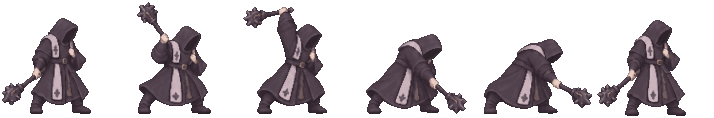
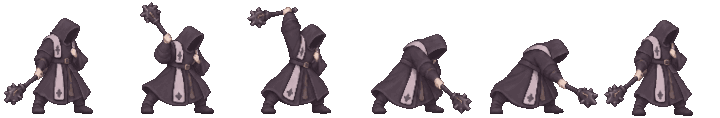
v0.3.44: flower map stones, sap bud exchange, deacon walk facing
- 지도석 기운: a grown flower rerolls a map stone's omen inside its colour
  group (LOOT_OMENS.flowers), never to the current omen; a golden flower picks
  from the group. Corrupted and guardian stones refuse and nothing is paid.
  Plain flowers count and spend 화폐화 currency first (box.wallet flower-<color>),
  then stored real flowers; golden flowers are real only. Albino, ancient and
  locked flowers are never spent.
- 거래소 m9: 수액 봉오리 1 to 형체 없는 이슬 6, the same value as m5 then m6.
- 장막 철퇴 부제사 walked looking back. Its redrawn walk is turned with a
  one-look --append-pack built from the current sheets (feet x to -x - 14, the
  old fix's mirror in its 119-dot cell), reach 63/22. build-stage-roster's
  MOTION_FACES_RIGHT now lists its move clip too.

diff --git a/index.html b/index.html
@@ -1528,7 +1528,7 @@
 <script defer src="data/atlas.js?v=20260930-15&aux=20261001-16&aux=20261001-17&maps=20261002-1&late=20261002-1&review=20261002-1&hive=20261006-1&review=20261007-1&goal=20261008-1&goal=20261008-4&goal=20261008-5&goal=20261008-6&goal=20261008-7&eff=20261008-1&ids=20261008-1&terms=20261009-1&fruit=20261009-1&post50=20261009-1&ages=20261009-1&uiwords=20261009-1&drops=20261009-3&bosses=20261018-1&codexreview=20261023-1&art=20261102-1"></script>
 <script defer src="data/atlas-passives.js?v=20260930-16&aux=20261001-17&fruit=20261009-1&omen=20261018-1"></script>
 <script defer src="data/atlas-endgame.js?v=20261002-1&review=20261002-1&hive=20261006-1&names=20261008-1&ids=20261008-1&league=20261009-1&names=20261010-1&infl=20261010-6&bosses=20261018-1&omen=20261018-1&bundle=20261102-1"></script>
-<script defer src="data/loot-omens.js?v=20261009-1&drops=20261009-2&drops=20261009-3&drops=20261009-4&drops=20261009-5&drops=20261009-6&filter=20261010-1&runes=20261017-1&omen=20261018-1&levels=20261102-1"></script>
+<script defer src="data/loot-omens.js?v=20261009-1&drops=20261009-2&drops=20261009-3&drops=20261009-4&drops=20261009-5&drops=20261009-6&filter=20261010-1&runes=20261017-1&omen=20261018-1&levels=20261102-1&flower=20261102-1"></script>
 <script defer src="data/knitting.js?v=20261022-1&codexreview=20261023-1&growth=20261025-1"></script>
 <script defer src="data/memory-leaves.js?v=20261009-1&drops=20261009-3&cohesion=20261022-1"></script>
 <script defer src="data/gem-core-forge.js?v=20260914-1&gem-value=20260915-1&aux=20261002-1&uiwords=20261009-1&forge=20261102-1"></script>
@@ -1537,7 +1537,7 @@
 <script defer src="data/skill-fx-atlas.js?v=20260909-2&native-bridge=20260909-1&slash-gallery=20260909-1&pixellab=338&runes=20261017-1"></script>
 <script defer src="data/endgame-progression.js?v=20260820-arcana-star1-pruning2&unlock=20260821-3&hideout=20260821-2&pruning-balance=20260903-1&beyond=20260901-2&boundary-balance=20260902-1&reward-flow=20260906-1&skill-delta2=20260930-10&aux=20260930-8&aux=20261001-17&post50=20261009-1&uiwords=20261009-1&runes=20261017-1&runes=20261102-1"></script>
 <script defer src="data/severed-wanderers.js?v=20260817-balance1&rooms=20261013-9&runes=20261017-1&motion1020=20261020-1"></script>
-<script defer src="data/items.js?v=20260723-currency-salvage1&defense-unique=20260811-rework1&cosmos=20260814-balance1&ocean=20260817-fishing1&growth-essence=20260819-random1&visuals=20260821-icon1&equipment-grid=20260827-3&runtime=20260905-1&loot-overhaul=20260905-4&interface-fixes=20260906-2&unlock-loot=20260906-1&affix-balance=20260910-1&craft-candidates=20260911-1&craft-copy=20260911-1&realm-uniques=20260913-1&preparation=20260914-1&skill-delta2=20260930-15&aux=20260930-6&aux=20260930-7&aux=20260930-8&aux=20261001-1&aux=20261001-16&aux=20261001-17&aux=20261002-1&late=20261002-1&review=20261002-1&weapons=20261002-1&realm=20261003-1&drops=20261005-8&playtest=20261007-4&playtest=20261007-8&playtest=20261007-9&playtest=20261007-10&tags=20261008-1&goal=20261008-1&goal=20261008-4&goal=20261008-5&terms=20261009-1&bases=20261009-1&uniq=20261009-1&deep=20261009-1&league=20261009-1&uiwords=20261009-1&names=20261010-1&infl=20261010-1&infl=20261010-3&ward=20261010-1&beltpetal=20261011-1&bootfloor=20261011-1&runes=20261017-1&boots=20261017-1&omen=20261018-1&labfix=20261019-1&chase=20261020-1&cooldown=20261021-1&npcsplit=20261021-1&uipass=20261022-1&codexreview=20261023-1&art=20261023-2&growth=20261025-1&salvage=20261025-1&swords=20261026-1&lines=20261027-1&runes=20261102-1&forge=20261102-1"></script>
+<script defer src="data/items.js?v=20260723-currency-salvage1&defense-unique=20260811-rework1&cosmos=20260814-balance1&ocean=20260817-fishing1&growth-essence=20260819-random1&visuals=20260821-icon1&equipment-grid=20260827-3&runtime=20260905-1&loot-overhaul=20260905-4&interface-fixes=20260906-2&unlock-loot=20260906-1&affix-balance=20260910-1&craft-candidates=20260911-1&craft-copy=20260911-1&realm-uniques=20260913-1&preparation=20260914-1&skill-delta2=20260930-15&aux=20260930-6&aux=20260930-7&aux=20260930-8&aux=20261001-1&aux=20261001-16&aux=20261001-17&aux=20261002-1&late=20261002-1&review=20261002-1&weapons=20261002-1&realm=20261003-1&drops=20261005-8&playtest=20261007-4&playtest=20261007-8&playtest=20261007-9&playtest=20261007-10&tags=20261008-1&goal=20261008-1&goal=20261008-4&goal=20261008-5&terms=20261009-1&bases=20261009-1&uniq=20261009-1&deep=20261009-1&league=20261009-1&uiwords=20261009-1&names=20261010-1&infl=20261010-1&infl=20261010-3&ward=20261010-1&beltpetal=20261011-1&bootfloor=20261011-1&runes=20261017-1&boots=20261017-1&omen=20261018-1&labfix=20261019-1&chase=20261020-1&cooldown=20261021-1&npcsplit=20261021-1&uipass=20261022-1&codexreview=20261023-1&art=20261023-2&growth=20261025-1&salvage=20261025-1&swords=20261026-1&lines=20261027-1&runes=20261102-1&forge=20261102-1&flower=20261103-1"></script>
 <script defer src="data/weapon-categories.js?v=20261002-1&playtest=20261007-8&bases=20261009-1&codexreview=20261023-1&swords=20261026-1"></script>
 <script defer src="data/affix-tags.js?v=20261007-1&b2=20261008-1&goal=20261008-1&goal=20261008-4&runes=20261017-1&cooldown=20261021-1"></script>
 <script defer src="data/region-affixes.js?v=20261008-1"></script>
@@ -1574,7 +1574,7 @@
 <script defer src="data/wisp-sprites.js?v=20260929-1"></script>
 <script defer src="data/monster-sprites.js?v=20261002-1&weapons=20261002-1&realm=20261003-1&hive=20261006-1&stagemon=20261011-2&backdrop=20261011-1&looks=20261013-1&codexreview=20261023-1"></script>
 <script defer src="data/monster-combat-roles.js?v=20261029-ocean1"></script>
-<script defer src="data/monster-stage-roster.js?v=20261029-breach1&art=20261102-3&outline=20261103-1"></script>
+<script defer src="data/monster-stage-roster.js?v=20261029-breach1&art=20261102-3&outline=20261103-1&flower=20261103-1"></script>
 <script defer src="data/boss-fx.js?v=20261016-1&bossattack=20261016-1&monsters1021=20261021-1&align=20261021-1&keep=20261021-1&cohesion=20261022-1&art=20261102-1"></script>
 <script defer src="data/stage-skill-vfx.js?v=20261013-2&runes=20261017-1&runev36=20261019-1&answers1020=20261020-1&rock1020=20261020-1&blessing=20261024-1&newrunes=20261101-1&20261102-6"></script>
 <script defer src="data/wisp-summons.js?v=20260930-1&newrunes=20261101-1"></script>
@@ -1604,7 +1604,7 @@
 <script defer src="js/exploration-objects.js?v=20261005-1&objects=20261005-2&drops=20261005-2&review=20261005-1&fruit=20261009-1&perf=20261013-1&atlasobjects=20261020-1&settle-pathing=20261027-1"></script>
 <script defer src="js/act-exploration-doors.js?v=20261011-1&theme=20261011-1&play=20261012-1&plans=20261013-1&boardrooms=20261013-1&roomfix=20261017-1&arrive=20261017-1&opened=20261017-1&lockon=20261017-1&ocean=20261019-1&roommaps=20261021-1&playerpolish=20261023-1&npc=20261102-1&invader=20261102-1"></script>
 <script defer src="js/exploration-ground-loot.js?v=20261005-1&currency=20261006-1&floor=20261006-2&drops=20261009-1&drops=20261009-2&bag=20261010-1&loot=20261013-1&rescue=20261015-1&seal=20261017-1&doorart=20261021-1&cohesion=20261022-1&codexreview=20261023-1&mutation=20261023-1&sound=20261023-1&colonyreturn=20261026-1&levels=20261102-1&20261102-4"></script>
-<script defer src="js/stump-box.js?v=20260930-6&aux=20260930-8&aux=20261001-18&drag=20261004-1&stump=20261006-1&playtest=20261007-8&playtest=20261007-9&stump16=20261008-1&goal=20261008-1&goal=20261008-6&deep=20261009-1&stump=20261009-1&stumpwords=20261009-1&stumpwords2=20261009-1&stumpwords3=20261009-1&bulkdiscard=20261018-1&stumpfull=20261019-1&codexreview=20261023-1&bagswap=20261023-1&blessing=20261024-1&growth=20261025-1&settle-cuts=20261027-1&stumpui=20261028-1&stump-gems=20261029-1&v0330=20261030-1&albino=20261030-1&levels=20261102-1&20261103-1&20261103-4"></script>
+<script defer src="js/stump-box.js?v=20260930-6&aux=20260930-8&aux=20261001-18&drag=20261004-1&stump=20261006-1&playtest=20261007-8&playtest=20261007-9&stump16=20261008-1&goal=20261008-1&goal=20261008-6&deep=20261009-1&stump=20261009-1&stumpwords=20261009-1&stumpwords2=20261009-1&stumpwords3=20261009-1&bulkdiscard=20261018-1&stumpfull=20261019-1&codexreview=20261023-1&bagswap=20261023-1&blessing=20261024-1&growth=20261025-1&settle-cuts=20261027-1&stumpui=20261028-1&stump-gems=20261029-1&v0330=20261030-1&albino=20261030-1&levels=20261102-1&20261103-1&20261103-4&flower=20261103-1"></script>
 <script defer src="js/item-appraisal.js?v=20260929-1&aux=20261002-1&uiwords=20261009-1"></script>
 <script defer src="js/player-stall.js?v=20260929-1&aux=20261002-1&drops=20261005-3&pickup=20261005-1&dmg=20261005-2&bag=20261010-1&shop=20261018-1&growth=20261025-1&v0330=20261030-1"></script>
 <script defer src="js/level-progression.js?v=20260911-1&requirements-review=20260911-1&unique-equipment=20260913-1&experience-curve=20260914-1&skill-delta2=20260930-8&drops=20261005-9&runegap=20261018-1"></script>
@@ -1671,14 +1671,14 @@
 <script defer src="js/combat-equipment-stats.js?v=20260911-1&unique-equipment=20260913-1&aux=20260930-7&aux=20261002-13&finish=20261008-1&split=20261008-1&uiwords=20261009-1&hunt=20261020-1&blessing=20261024-1&settleresume=20261025-1&bark=20261031-1"></script>
 <script defer src="js/player-stat-cache.js?v=20261008-1&fg=20261008-1&breath=20261020-1&settle-cuts=20261027-1&v0339=20261102-1"></script>
 <script defer src="js/cosmos-route.js?v=20260909-8&uiwords=20261009-1&gravity=20261029-1"></script>
-<script defer src="js/loot-omens.js?v=20261009-1&drops=20261009-2&drops=20261009-3&filter=20261010-1&omen=20261018-1"></script>
+<script defer src="js/loot-omens.js?v=20261009-1&drops=20261009-2&drops=20261009-3&filter=20261010-1&omen=20261018-1&flower=20261102-1"></script>
 <script defer src="js/memory-leaves.js?v=20261009-1&drops=20261009-2&drops=20261009-3&drops=20261009-4&cohesion=20261022-1"></script>
 <script defer src="js/atlas-maps.js?v=20260930-15&goal=20261008-2&post50=20261009-1&uiwords=20261009-1&drops=20261009-1&drops=20261009-3&drops=20261009-4&filter=20261010-1&bosses=20261018-1"></script>
 <script defer src="js/atlas-passives.js?v=20260930-9&aux=20261001-17&fruit=20261009-1&endgame=20261018-1"></script>
 <script defer src="js/atlas-encounters.js?v=20260930-15&late=20261002-1&review=20261002-1&hive=20261006-1&review=20261007-1&goal=20261008-1&goal=20261008-4&goal=20261008-7&fruit=20261009-1&post50=20261009-1&incident=20261020-2&bundle=20261102-1"></script>
 <script defer src="js/atlas-epoch.js?v=20260930-15&late=20261002-1&eff=20261008-1&tidy=20261018-1"></script>
 <script defer src="js/atlas-board.js?v=20261018&bundle=20261102-1"></script>
-<script defer src="js/atlas.js?v=20260930-15&maps=20261002-1&late=20261002-1&review=20261002-1&traps=20261002-1&goal=20261008-1&goal=20261008-2&goal=20261008-3&ids=20261008-1&fruit=20261009-1&uiwords=20261009-1&drops=20261009-1&drops=20261009-2&drops=20261009-4&infl=20261010-1&endgame=20261018-1&bosses=20261018-1&linger=20261019-2&cohesion=20261022-1&codexreview=20261023-1&art=20261102-1"></script>
+<script defer src="js/atlas.js?v=20260930-15&maps=20261002-1&late=20261002-1&review=20261002-1&traps=20261002-1&goal=20261008-1&goal=20261008-2&goal=20261008-3&ids=20261008-1&fruit=20261009-1&uiwords=20261009-1&drops=20261009-1&drops=20261009-2&drops=20261009-4&infl=20261010-1&endgame=20261018-1&bosses=20261018-1&linger=20261019-2&cohesion=20261022-1&codexreview=20261023-1&art=20261102-1&flower=20261102-1"></script>
 <script defer src="js/atlas-endgame.js?v=20261002-1&review=20261002-1&review=20261002-2&hive=20261006-1&hive=20261006-2&review=20261007-1&stump16=20261008-1&goal=20261008-6&ids=20261008-1&league=20261009-1&infl=20261010-1&infl=20261010-6&endgame=20261018-1&bosses=20261018-1&omen=20261018-1&cohesion=20261022-1&bundle=20261102-1"></script>
 <script defer src="js/loop-mutation.js?v=20261023-1"></script>
 <script defer src="js/combat.js?v=20260806-loot-tiers1-20260807-evasion-entropy1&recovery-tick=20260908-1&growth=20260806-growth-drop3&records=20260808-background-fix1&vfx=20260810-skill-vfx2&tactics=20260810-combat-tactics1&channel=20260810-sustain1&passive=20260810-presets1&defense-unique=20260811-rework1&body-cue=20260811-fixed1&impact=20260811-boss-sync1&damage-text=20260811-volley1&ehp=20260811-bosspeak1&underworld=20260819-depth1&lightning-spear=20260812-performance1&hit-guard=20260813-attack-scope1&meteor=20260813-ground1&shield-charge=20260814-armor1&loop-completion=20260814-settings1&tooltip=20260814-perf1&cosmos=20260814-balance1&power=20260814-readiness1&trial=20260814-bloom1&pinnacle=20260814-atlas1&tune=20260815-cosmos-ehp1&trial5=20260816-underworld1&directives=20260817-1&wanderer=20260817-balance1&bounty=20260817-restore1&vfx-budget=20260818-1&balance=20260819-endless-cap1&travel=20260819-empty-rush1&offline-stash=20260820-1&endgame=20260821-arcana4&hideout=20260821-2&combat-log-icons=20260822-1&map-tabs=20260823-1&player-classes=20260828-1&passive-gate=20260829-1&trial-hazard=20260901-3&death-feedback=20260901-1&beyond=20260901-2&square-map=20260901-3&enemy-lunge=20260902-1&return-depart=20260902-1&realm-monsters=20260902-1&drop-balance=20260902-1&underworld-yield=20260902-1&cosmos-hp=20260902-1&rival31=20260902-1&boundary-balance=20260902-1&frost-burst=20260902-1&passive-contracts=20260903-2&choice-feedback=20260904-1&wisps=20260904-2&runtime=20260905-2&slash-vfx=20260905-1&footprint=20260905-4&skill-identity=20260905-1&combat-contracts=20260905-1&combat-overhaul=20260905-2&loot-overhaul=20260905-1&loot-filter=20260905-1&interface-fixes=20260906-2&refinement=20260906-1&content-choice=20260906-1&choice-tree=20260906-1&flow=20260906-1&unlock-loot=20260906-1&reward-flow=20260906-1&unlock-lifecycle=20260907-1&unlock-split=20260907-1&treasure=20260907-1&thermal=20260907-1&health-boundary=20260908-1&hunt-rewards=20260908-1&hunt-failure=20260908-1&condition-feedback=20260909-1&stat-pipeline=20260909-1&stat-inputs=20260909-1&route=20260909-8&native-bridge=20260909-1&slash-gallery=20260909-1&contact-feedback=20260909-1&enemy-attacks=20260910-1&integrated-review=20260910-1&affix-balance=20260910-1&level-progression=20260911-1&ground-loot=20260911-1&requirements-review=20260911-1&review=20260912-v338&realm-uniques=20260913-1&drop-origin=20260913-1&completion-loot=20260913-1&content-resume=20260913-1&altar-flow=20260913-1&world-tree-journey=20260913-1&exploration=20260913-4&environment-readiness=20260913-1&expedition-review=20260914-2&expedition-result=20260914-2&time-rift=20260914-4&melee-approach=20260914-1&death-report=20260914-1&atlas-copy=20260914-3&crafting-workspace=20260914-1&experience-curve=20260914-1&gem-growth=20260914-1&gem-forge=20260914-1&gem-value=20260914-2&skill-delta2=20260930-15&aux=20260930-3&aux=20260930-6&aux=20260930-7&aux=20260930-8&aux=20261001-1&aux=20261001-3&aux=20261001-4&aux=20261001-14&aux=20261001-15&aux=20261001-16&aux=20261001-17&aux=20261001-19&aux=20261001-20&aux=20261002-1&aux=20261002-4&aux=20261002-6&aux=20261002-7&aux=20261002-8&aux=20261002-10&aux=20261002-11&aux=20261002-13&aux=20261002-15&aux=20261002-16&aux=20261002-18&monsters=20261002-1&late=20261002-1&review=20261002-1&traps=20261002-1&wave=20261002-1&touch=20261002-1&realm=20261003-1&review=20261003-1&tempstore=20261003-1&sight=20261004-1&feel=20261004-1&objects=20261005-2&drops=20261005-3&facing=20261004-1&balance=20261004-1&drops=20261005-8&juice=20261005-1&drops=20261005-11&pickup=20261005-1&dmg=20261005-2&currency=20261006-1&floor=20261006-2&fixes=20261006-1&loopcurve=20261006-1&loop-ehp=20261006-1&hive=20261013-1&boss-attacks=20261006-1&boss-attacks=20261006-2&hitlog=20261006-1&review=20261007-1&playtest=20261007-2&playtest=20261007-3&playtest=20261007-6&playtest=20261007-8&playtest=20261007-9&goal=20261008-1&goal=20261008-2&goal=20261008-3&goal=20261008-6&eff=20261008-1&split=20261008-1&fg=20261008-1&sight=20261009-1&alert=20261009-1&fruit=20261009-1&uniq=20261009-1&post50=20261009-1&deep=20261009-1&league=20261009-1&uiwords=20261009-1&drops=20261009-1&drops=20261009-4&aim=20261009-1&filter=20261010-1&ward=20261010-1&bag=20261010-1&chaosstep=20261011-1&rooms=20261011-1&theme=20261011-1&plans=20261013-1&boardrooms=20261013-1&roomvar=20261013-1&hive=20261006-1&salvage=20261012-1&boss=20261014-1&story=20261015-1&rescue=20261015-1&opening=20261015-1&rescueroom=20261015-1&storyflow=20261015-1&bossmoves=20261016-1&bossfoot=20261016-1&runes=20261017-1&crowd=20261017-1&ailment=20261017-1&defense=20261017-1&herald=20261017-2&resist=20261017-1&starter=20261017-1&lockon=20261017-1&conewave=20261017-1&boots=20261017-1&band=20261017-1&scripted=20261017-1&runegap=20261018-1&storyart=20261018-1&endgame=20261018-1&bosses=20261018-1&omen=20261018-1&oceanpace=20261019-1&oceansurface=20261019-1&labfix=20261019-1&decide=20261019-1&ocean2=20261020-1&incident=20261020-1&answers1020=20261020-1&cooldown=20261021-1&roommaps=20261021-1&npcsplit=20261021-1&hallfix=20261022-1&cohesion=20261022-1&codexreview=20261023-1&mutation=20261023-1&blessing=20261024-1&growth=20261025-1&riftart=20261025-1&riftdefeat=20261026-1&colonyreturn=20261026-1&underworldreward=20261026-1&grandreturn=20261026-1&review=20261026-2&guard=20261027-1&perf-leaks=20261026-1&settle-cuts=20261027-1&tree23=20261028-3&attrrune=20261028-1&colony-aim=20261029-1&albino=20261030-1&bark=20261031-1&newrunes=20261101-1&v0339=20261102-1&runes=20261102-1&text=20261102-3&forge=20261102-1&invader=20261102-1"></script>
@@ -1876,7 +1876,7 @@
 <script defer src="js/cosmos-route-ui.js?v=20260909-10&aux=20261001-17&aux=20261002-1&uiwords=20261009-1&growth=20261025-1&maptabs=20261025-1&mappolish=20261026-1&tooltips=20261031-1"></script>
 <script defer src="js/canvas-atlas-chart.js?v=20260930-16&growth=20261025-1"></script>
 <script defer src="js/atlas-board-ui.js?v=20261018&salvage=20261025-1"></script>
-<script defer src="js/atlas-ui.js?v=20260930-16&aux=20261001-19&maps=20261002-1&late=20261002-1&review=20261002-1&review=20261002-2&goal=20261008-1&goal=20261008-2&goal=20261008-7&terms=20261009-1&fruit=20261009-1&post50=20261009-1&uiwords=20261009-1&drops=20261009-1&drops=20261009-2&drops=20261009-4&infl=20261010-6&review=20261015-1&endgame=20261018-1&bosses=20261018-1&omen=20261018-1&cohesion=20261022-1&codexreview=20261023-1&growth=20261025-1&maptabs=20261025-1&mappolish=20261026-1&tooltips=20261031-1"></script>
+<script defer src="js/atlas-ui.js?v=20260930-16&aux=20261001-19&maps=20261002-1&late=20261002-1&review=20261002-1&review=20261002-2&goal=20261008-1&goal=20261008-2&goal=20261008-7&terms=20261009-1&fruit=20261009-1&post50=20261009-1&uiwords=20261009-1&drops=20261009-1&drops=20261009-2&drops=20261009-4&infl=20261010-6&review=20261015-1&endgame=20261018-1&bosses=20261018-1&omen=20261018-1&cohesion=20261022-1&codexreview=20261023-1&growth=20261025-1&maptabs=20261025-1&mappolish=20261026-1&tooltips=20261031-1&flower=20261102-1"></script>
 <script defer src="js/atlas-passives-ui.js?v=20260930-16&aux=20261001-17&aux=20261001-20&aux=20261001-21&review=20261003-1&fruit=20261009-1&uiwords=20261009-1&growth=20261025-1"></script>
 <script defer src="js/ascendancy-tree-ui.js?v=20261009-1&talent=20261009-1&runes=20261017-1&treepreview=20261017-1&uipass=20261022-1&look=20261102-1&fixes=20261102-1&20261103-2"></script>
 <script defer src="js/atlas-epoch-ui.js?v=20260930-12&late=20261002-1&eff=20261008-1&uiwords=20261009-1&endgame=20261018-1&codexreview=20261023-1&tooltips=20261031-1"></script>

diff --git a/js/atlas-ui.js b/js/atlas-ui.js
@@ -2,11 +2,13 @@
  * 패시브 보기는 js/atlas-passives-ui.js. 상태는 js/atlas.js, 런 흐름은 js/atlas-run.js가 맡고, 여기서는 고르기 · 보여주기 · 기록만 한다.
  */
 const atlasUi = (() => {
-    let signature = '', hudSignature = '', selectedNode = null, selectedUid = null, view = 'maps', panelObserver = null;
+    let signature = '', hudSignature = '', selectedNode = null, selectedUid = null, view = 'maps', panelObserver = null, bloomedUid = null;
     const STATUS = { locked: '잠김', open: '열림', complete: '완료', bonus: '보너스' };
     /** The painted act map a node walks (data/act-exploration-maps.js terrain). */
     const terrainOf = node => (ACT_EXPLORATION_MAPS.find(map => map.act === node.act) || {}).terrain || '';
     const CRAFT_ORDER = ['magicBud', 'sapBud', 'formlessDew', 'blightSpore', 'pruningShears', 'goldenRule', 'deepWhetstone', 'emberBranch'];
+    const FLOWER_COLORS = Object.keys(LOOT_OMENS.flowers);
+    const flowerWallet = () => FLOWER_COLORS.flatMap(color => [stumpBox.storedFlowerCount(game, color, false), stumpBox.storedFlowerCount(game, color, true)]);
     const ledger = () => game.atlas;
     const nodeName = id => atlas.node(id)?.name || '';
     const selectedMap = () => ledger().stash.find(map => map.uid === selectedUid) || null;
@@ -81,6 +83,31 @@ const atlasUi = (() => {
         addLog(`🗺 ${nodeName(map.node)} 지도석에 ${ORB_DB[key].name} 사용: ${atlasMaps.crafts[key].label}`, 'loot-magic');
         queueImportantSave(200);
         refresh();
+    }
+    /** 꽃 하나로 지도석의 기운을 바꾼다(js/atlas.js changeOmen). 새 기운은 한 번 빛난다. */
+    function applyFlower(map, color, omenId) {
+        const result = atlas.changeOmen(game, map.uid, color, omenId);
+        if (result.reason) return addLog(result.reason, 'attack-monster');
+        addLog(`🗺 ${nodeName(map.node)} 지도석에 ${omenId ? '황금 ' : ''}${STUMP_BOX_COLORS[color].label} 꽃 사용: ${lootOmens.describe(result.omen).name}`, 'loot-magic');
+        playUiFeedbackSound('gemSocket');
+        queueImportantSave(200);
+        bloomedUid = map.uid;
+        refresh();
+        bloomedUid = null;
+    }
+    function flowerOmen(color) {
+        const map = selectedMap();
+        if (map) applyFlower(map, color, null);
+    }
+    /** 황금 꽃: 그 색 묶음의 기운을 보여 주고 고른 것으로 바꾼다. 묻는 사이 지도석이 바뀌었으면 쓰지 않는다. */
+    async function goldenFlowerOmen(color) {
+        const map = selectedMap();
+        if (!map) return;
+        const choices = lootOmens.flowerOmens(color, game, map.omen).map(omen => ({ value: omen.id, label: omen.name, detail: omen.note }));
+        const picked = await requestGameChoice({ title: `황금 ${STUMP_BOX_COLORS[color].label} 꽃`, message: '지도석에 붙일 기운을 고르세요.', choices, confirmLabel: '이 기운으로', cancelLabel: '취소' });
+        if (!picked) return;
+        if (selectedMap() !== map) return addLog('선택한 지도석이 바뀌어 기운 바꾸기를 취소했습니다.', 'attack-monster');
+        applyFlower(map, color, picked);
     }
     /** 각인 홈: 누르면 끼우고, 다시 누르면 뺀다. 지도를 열 때마다(자동 지도 포함) 가진 것만 하나씩 쓴다. */
     function toggleFragment(id) {
@@ -217,7 +244,7 @@ const atlasUi = (() => {
         const found = lootOmens.of(map);
         if (!found) return '';
         const omen = lootOmens.describe(found.omen.id);
-        return `<p class="atlas-omen" style="--omen:${omen.tone}"><b>${escapeHTML(omen.name)}</b><small>세기 ×${found.strength}</small>`
+        return `<p class="atlas-omen${map.uid === bloomedUid ? ' is-bloomed' : ''}" style="--omen:${omen.tone}"><b>${escapeHTML(omen.name)}</b><small>세기 ×${found.strength}</small>`
             + `<span>${escapeHTML(omen.note)}</span></p>`;
     }
     function omenChipHtml(map) {
@@ -288,7 +315,7 @@ const atlasUi = (() => {
             ? '보관함이나 노드에서 지도석을 고르세요.' : '지도석이 없습니다. 혼돈 20 이상에서 보스를 잡거나 이번 루프의 혼돈 20을 깨면 들어옵니다.'}</p>${fragmentsHtml()}</section>`;
         const crafts = CRAFT_ORDER.map(key => craftButtonHtml(map, key)).join('');
         return `<section class="atlas-device" aria-label="지도 장치"><h3>지도 장치</h3>${mapCardHtml(map, buildMapPowerEstimateHtml(atlas.preview(game, map)))}
-            <div class="atlas-crafts" aria-label="지도석 제작">${crafts}</div>${fragmentsHtml()}${chancesHtml()}
+            <div class="atlas-crafts" aria-label="지도석 제작">${crafts}</div>${flowersHtml(map)}${fragmentsHtml()}${chancesHtml()}
             ${lock ? `<p class="atlas-lock">${lock}</p>` : ''}<div class="atlas-actions"><button class="atlas-primary" data-exploration-departure
             onclick="atlasUi.open()" ${lock ? 'disabled' : ''}>지도 열기</button></div></section>`;
     }
@@ -296,6 +323,22 @@ const atlasUi = (() => {
         const have = Math.floor(game.currencies[key] || 0), reason = atlasMaps.craftReason(map, key);
         return `<button onclick="atlasUi.craft('${key}')" ${reason || have < 1 ? 'disabled' : ''}${reason ? ` data-tip="${escapeHTML(reason)}"` : ''}>
             <span>${window.getStyledOrbName(key)}</span><small>${atlasMaps.crafts[key].label}, ${have}</small></button>`;
+    }
+    /** 꽃 한 색(data/loot-omens.js flowers): 평범한 꽃의 단추와, 황금 꽃을 가졌을 때만 고르는 단추. 툴팁은 그 색으로 나올 수 있는 기운이다. */
+    function flowerButtonsHtml(map, color) {
+        const name = `${STUMP_BOX_COLORS[color].label} 꽃`, blocked = atlas.omenChangeReason(map), names = lootOmens.flowerOmens(color, game, map.omen).map(omen => omen.name).join(', ');
+        const plain = stumpBox.storedFlowerCount(game, color, false), golden = stumpBox.storedFlowerCount(game, color, true), closed = blocked || !names;
+        const icon = `<img class="atlas-flower-icon" src="${stumpBox.harvestPriceIcon(stumpBox.harvestPriceKey('flower', color))}" alt="">`;
+        const tip = blocked || (plain ? names : `${name}이 없습니다. ${names}`);
+        const pick = golden ? `<button class="is-golden" onclick="atlasUi.goldenFlowerOmen('${color}')" ${closed ? 'disabled' : ''} data-tip="${escapeHTML(blocked || names)}">
+            ${icon}<span>황금 ${name}<small>직접 고르기, ${golden}</small></span></button>` : '';
+        return `<div class="atlas-flower" style="--flower:${STUMP_BOX_COLORS[color].tone}"><button onclick="atlasUi.flowerOmen('${color}')" ${closed || plain < 1 ? 'disabled' : ''} data-tip="${escapeHTML(tip)}">
+            ${icon}<span>${name}<small>${LOOT_OMENS.flowers[color].label}, ${plain}</small></span></button>${pick}</div>`;
+    }
+    /** 지도 노드의 지도석에만 기운이 있다(수호자 지도석은 없다). */
+    function flowersHtml(map) {
+        if (atlas.node(map.node)?.kind !== 'map') return '';
+        return `<div class="atlas-flowers" aria-label="꽃으로 기운 바꾸기"><p>꽃으로 기운 바꾸기</p>${FLOWER_COLORS.map(color => flowerButtonsHtml(map, color)).join('')}</div>`;
     }
     const TICKET = key => ORB_DB[key].name.replace('그림자 뿌리 입장권: ', '');
     function nodeDetailHtml() {
@@ -494,7 +537,7 @@ const atlasUi = (() => {
         if (!panel || !panelOpen()) return;
         atlas.sync(game);
         atlasBoard.sync(game);
-        const wallet = [...CRAFT_ORDER, ...ATLAS.pinnacle.tickets].map(key => game.currencies[key] || 0);
+        const wallet = [...[...CRAFT_ORDER, ...ATLAS.pinnacle.tickets].map(key => game.currencies[key] || 0), ...flowerWallet()];
         if (!viewOpen(view)) view = 'maps'; // 다른 저장을 불러와 원정이 닫힌 뒤
         const key = JSON.stringify([view, ledger(), selectedNode, selectedUid, wallet, atlasRun.blockReason(), game.currentZoneId, game.maxZoneId, game.settings.mapCompleteAction, getPersistentBuildSignature(game)]);
         if (key === signature && panel.innerHTML) return;
@@ -580,6 +623,6 @@ const atlasUi = (() => {
         signature = '';
     }
     window.addEventListener('project-idle:atlas-map', event => announce(event.detail));
-    return Object.freeze({ render, refresh, updateHud, openPanel, setView, pages, progressLine, selectNode, selectMap, revealDevice, revealStash, hint, craft, discard, toggleFragment, open, openPinnacle, reenter, abandon, toggleAuto, toggleAutoGuardians });
+    return Object.freeze({ render, refresh, updateHud, openPanel, setView, pages, progressLine, selectNode, selectMap, revealDevice, revealStash, hint, craft, flowerOmen, goldenFlowerOmen, discard, toggleFragment, open, openPinnacle, reenter, abandon, toggleAuto, toggleAutoGuardians });
 })();
 safeExposeGlobals({ atlasUi });

diff --git a/js/atlas.js b/js/atlas.js
@@ -173,6 +173,26 @@ const atlas = (() => {
         state.atlas.stash.splice(index, 1);
         return '';
     }
+    /** '' when a flower can change this stone's omen, otherwise why not: guardian stones carry none, and corruption closes a stone as it does for crafts. */
+    function omenChangeReason(map) {
+        if (BY_ID.get(map.node)?.kind !== 'map') return '지도 노드의 지도석에만 기운이 붙습니다.';
+        return map.corrupted ? '타락한 지도석은 더 바꿀 수 없습니다.' : '';
+    }
+    /** 꽃 하나로 지도석의 기운을 바꾼다(data/loot-omens.js flowers): omenId가 없으면 평범한 꽃으로 다시 굴리고, 있으면 황금 꽃으로 그 기운을 고른다.
+     * 바꿀 수 없으면 꽃도 지도석도 그대로다. @returns {{reason?:string, omen?:string}} */
+    function changeOmen(state, uid, color, omenId = null, random = Math.random) {
+        const map = state.atlas.stash.find(entry => entry.uid === uid);
+        if (!map) return { reason: '보관함에 없는 지도석입니다.' };
+        const reason = omenChangeReason(map);
+        if (reason) return { reason };
+        const open = lootOmens.flowerOmens(color, state, map.omen).some(omen => omen.id === omenId);
+        const next = omenId ? (open ? omenId : null) : lootOmens.rollFlowerOmen(color, state, map.omen, random);
+        if (!next) return { reason: '이 꽃으로 바꿀 수 있는 기운이 없습니다.' };
+        // 화폐화한 꽃도 평범한 꽃이라 '보관함에'는 황금 꽃에만 붙는다.
+        if (!stumpBox.payFlower(state, color, !!omenId)) return { reason: `${omenId ? '보관함에 황금 ' : ''}${STUMP_BOX_COLORS[color].label} 꽃이 없습니다.` };
+        map.omen = next;
+        return { omen: next };
+    }
     /** The loadout's first `slots` fragments in stock. Encounter fragments only while the map has ordinary rooms left for
      * them (guardian and pinnacle arenas have none) — the rest stay in the stock. */
     function activeFragments(state, rooms = Infinity) {
@@ -661,7 +681,7 @@ const atlas = (() => {
     return Object.freeze({ nodes: NODES, links: LINKS, renameSavedIds, node: id => BY_ID.get(id) || null, neighbours: id => NEIGHBOURS.get(id) || [],
         fragment: id => FRAGMENTS.get(id) || null, pinnacle: PINNACLE, position, polar, defaults, lockReason, runOpenReason, status, reachable, points, bestTier, sync,
         effectiveTier, hasTickets, pinnacleReason, beginPinnacle, beginSpecial, beginMemory, beginBoard, lateNodes: LATE_NODES,
-        slots, setLoadout, beginReason, begin, discard, cancel, complete, markCleared, keepLoot, usePortal, close, nextAuto, dropFromKill, extraMap, fragmentFromKill, fragmentOpen,
+        slots, setLoadout, beginReason, begin, discard, omenChangeReason, changeOmen, cancel, complete, markCleared, keepLoot, usePortal, close, nextAuto, dropFromKill, extraMap, fragmentFromKill, fragmentOpen,
         zone, preview, lootTier, equivalentDepth, normalize, onLoopReset, travelReason, rewardMaps,
         inMap: state => state.currentZoneId === ATLAS.zoneId });
 })();

diff --git a/data/monster-stage-roster.js b/data/monster-stage-roster.js
@@ -12,7 +12,7 @@
 const MONSTER_STAGE_ROSTER = Object.freeze({
     path: 'assets/enemies/roster/',
     /** 그림 묶음의 지문: 그림을 이 값과 함께 불러, 칸이 바뀐 그림을 브라우저가 예전 것으로 쓰지 않게 한다. */
-    version: '925221d80f',
+    version: 'c5c2b233ed',
     /** 제 새 그림이 아직 없어 다른 외형의 그림을 빌려 입는 외형(위습: 같은 속성의 새 그림). */
     wears: Object.freeze({ 'meteor-shard': 'cosmos-star', 'meteor-melt': 'cosmos-ooze', 'meteor-sentinel': 'cosmos-sentinel', 'cerberus-head': 's6_beast_cerberus', 'cerberus-fang': 's6_beast_cerberus', 'underworld-king': 'realm_underking', 'cosmos-colossus': 'realm_colossus', 'sky-titan': 'realm_titan',
         'atlas-roots-0': 'guardian-roots', 'atlas-roots-2': 'trial_3', 'atlas-roots-4': 'apex_compost', 'atlas-roots-5': 'realm_underking',
@@ -125,7 +125,7 @@ const MONSTER_STAGE_ROSTER = Object.freeze({
         ["deacon-act6-ranged","고갈 성수 부제녀",89,97,47,95,90,63,"legs",[6,6,[133.33,133.33,133.33,133.33,133.33,133.33],"stride"],[6,6,[200,166.67,166.67,83.33,116.67,200],3],[35,27],null],
         ["deacon-act7-melee","고목 철퇴 부제사",105,116,59,114,94,83,"legs",[6,6,[133.33,133.33,133.33,133.33,133.33,133.33],"stride"],[6,6,[200,166.67,166.67,83.33,116.67,200],3],[43,38],null],
         ["deacon-act7-ranged","고목 성수 부제녀",91,97,48,94,90,63,"legs",[6,6,[133.33,133.33,133.33,133.33,133.33,133.33],"stride"],[6,6,[200,166.67,166.67,83.33,116.67,200],3],[37,24],null],
-        ["deacon-act8-melee","장막 철퇴 부제사",119,118,65,114,94,88,"legs",[6,6,[133.33,133.33,133.33,133.33,133.33,133.33],"stride"],[6,6,[200,166.67,166.67,83.33,116.67,200],3],[36,49],null],
+        ["deacon-act8-melee","장막 철퇴 부제사",120,118,67,114,94,88,"legs",[6,6,[133.33,133.33,133.33,133.33,133.33,133.33],"stride"],[6,6,[200,166.67,166.67,83.33,116.67,200],3],[63,22],null],
         ["deacon-act8-ranged","장막 성수 부제녀",88,99,48,94,90,62,"legs",[6,6,[133.33,133.33,133.33,133.33,133.33,133.33],"stride"],[6,6,[200,166.67,166.67,83.33,116.67,200],3],[38,23],null],
         ["root-greatsword","대검 뿌리촉수",122,107,70,103,60,111,"legs",[6,6,[133.33,133.33,133.33,133.33,133.33,133.33],"stride"],[6,6,[200,166.67,166.67,83.33,116.67,200],3],[62,49],null],
         ["root-scimitar","한손검 뿌리촉수",103,98,53,95,66,81,"legs",[6,6,[133.33,133.33,133.33,133.33,133.33,133.33],"stride"],[6,6,[200,166.67,166.67,83.33,116.67,200],3],[44,34],null],

diff --git a/js/stump-box.js b/js/stump-box.js
@@ -242,6 +242,18 @@ const stumpBox = (() => {
     }
     /** Up to limit pieces of each stack. */
     const walletPieces = (state, limit) => HARVEST_KEYS.flatMap(key => Array.from({ length: Math.min(limit, walletCount(state, key)) }, (_, index) => walletPiece(key, index)));
+    // 지도석 기운 바꾸기(js/atlas.js changeOmen): 평범한 꽃은 다시 굴리고 황금 꽃은 고른다. 둘은 서로의 값을 대신하지 않고, 알비노와 고대 씨앗은 쓰지 않는다.
+    // 화폐화한 꽃은 표식이 없어 평범한 꽃으로 세고, 다른 값처럼 실물보다 먼저 낸다.
+    const isGoldenHarvest = item => !item.albino && !item.ancient && goldenMul(item) > 1;
+    const storedFlowers = (state, color, golden) => harvestForPrice(state, harvestPriceKey('flower', color)).filter(golden ? isGoldenHarvest : isPlainHarvest);
+    const storedFlowerCount = (state, color, golden) => storedFlowers(state, color, golden).length + (golden ? 0 : walletCount(state, `flower-${color}`));
+    /** 꽃 하나를 쓴다: 화폐화한 꽃이면 { walletKey }, 실물이면 낸 꽃을 돌려주고, 가진 것이 없으면 null. */
+    function payFlower(state, color, golden) {
+        const stack = `flower-${color}`;
+        if (!golden && spendWallet(state, stack)) return { walletKey: stack };
+        const item = storedFlowers(state, color, golden)[0];
+        return item && discard(state, item.id) ? item : null;
+    }
     function clampRoll(value, cap = STUMP_BOX_ROLL_LIMIT.max) {
         return Math.round(Math.min(cap, Math.max(STUMP_BOX_ROLL_LIMIT.min, Number(value) || 1)) * 100) / 100;
     }
@@ -1349,7 +1361,7 @@ const stumpBox = (() => {
         itemById: (state, id) => findItem(of(state), id),
         settleStorageSlots, orderStorage, moveInStorage, harvestPriceKey, isHarvestPrice, harvestPriceName, harvestPriceIcon, harvestPriceHeld, payHarvestPrice, harvestWalletKeys,
         canMonetize, monetize, spendWallet, walletCount, walletTotal, harvestHoldings, walletPieceById, walletPieces,
-        isPlaced, nurseryOpen, nurseryRate, inNursery, firstNurseryCell, nurseryMove, nurseryUnplace, nurseryClearReason, nurseryClear
+        isPlaced, nurseryOpen, nurseryRate, inNursery, firstNurseryCell, nurseryMove, nurseryUnplace, nurseryClearReason, nurseryClear, storedFlowerCount, payFlower
     };
 })();
 safeExposeGlobals({ stumpBox });

diff --git a/js/loot-omens.js b/js/loot-omens.js
@@ -27,6 +27,15 @@ const lootOmens = (() => {
         const pick = pickWeighted(LOOT_OMENS.list.filter(omen => available(omen, state)), omen => omen.weight, random);
         return pick ? pick.id : null;
     }
+    /** 그 꽃 색의 묶음에서 지금 이 지도석에 붙을 수 있는 기운들(data/loot-omens.js flowers). 지금 기운은 빼서, 꽃을 쓰면 반드시 바뀐다. */
+    function flowerOmens(color, state, currentId) {
+        return LOOT_OMENS.flowers[color].omens.map(id => BY_ID.get(id)).filter(omen => omen.id !== currentId && available(omen, state));
+    }
+    /** @returns {string|null} the omen a plain flower of this colour rolls */
+    function rollFlowerOmen(color, state, currentId, random) {
+        const pick = pickWeighted(flowerOmens(color, state, currentId), omen => omen.weight, random);
+        return pick ? pick.id : null;
+    }
     const strengthOf = map => (LOOT_OMENS.strength[map.rarity] || 1) + (map.corrupted ? LOOT_OMENS.strength.corrupted : 0);
     /** A map stone's omen and strength, or null (an old stone, or a guardian or arena map). */
     function of(map) {
@@ -125,7 +134,7 @@ const lootOmens = (() => {
         return omen ? { id: omen.id, name: omen.name, note: omen.note, tone: omen.tone, kind: omen.kind } : null;
     };
     const validId = id => typeof id === 'string' && BY_ID.has(id);
-    return Object.freeze({ roll, of, inZone, runBonus, zoneFields, enemyMods, jewelOdds, slotWeights, variantMul, killDrops, strayDrops, treasureDrops,
+    return Object.freeze({ roll, flowerOmens, rollFlowerOmen, of, inZone, runBonus, zoneFields, enemyMods, jewelOdds, slotWeights, variantMul, killDrops, strayDrops, treasureDrops,
         goldenJackpot, isTreasurePack, isGoldenTreasure, describe, validId, strengthOf, isItemKind });
 })();
 safeExposeGlobals({ lootOmens });

diff --git a/css/atlas.css b/css/atlas.css
@@ -104,6 +104,17 @@
 #ui-atlas .atlas-crafts{display:grid;grid-template-columns:repeat(2,minmax(0,1fr));gap:5px;margin-top:10px}
 #ui-atlas .atlas-crafts button{display:flex;flex-direction:column;align-items:flex-start;gap:1px;min-height:38px;padding:5px 7px;text-align:left}
 #ui-atlas .atlas-crafts small{color:var(--atlas-muted);font-size:10px}
+#ui-atlas .atlas-flowers{display:grid;grid-template-columns:repeat(2,minmax(0,1fr));gap:5px;margin-top:10px}
+#ui-atlas .atlas-flowers>p{grid-column:1/-1;margin:0;color:var(--atlas-muted);font-size:12px}
+#ui-atlas .atlas-flower{display:grid;align-content:start;gap:5px}
+#ui-atlas .atlas-flower button{display:grid;grid-template-columns:32px minmax(0,1fr);align-items:center;gap:6px;min-height:40px;padding:3px 7px 3px 4px;border-left:3px solid var(--flower);text-align:left}
+#ui-atlas .atlas-flower img{display:block;width:32px;height:32px;image-rendering:pixelated}
+#ui-atlas .atlas-flower button:disabled img{opacity:.45}
+#ui-atlas .atlas-flower span{display:grid;gap:1px;min-width:0}
+#ui-atlas .atlas-flower small{color:var(--atlas-muted);font-size:10px}
+#ui-atlas .atlas-flower .is-golden{border-color:#d9b066;background:linear-gradient(90deg,rgba(217,176,102,.22),transparent);color:#f0d9a4}
+#ui-atlas .atlas-omen.is-bloomed{animation:atlas-omen-bloom .6s steps(6) 1}
+@keyframes atlas-omen-bloom{from{box-shadow:0 0 0 2px var(--omen),0 0 14px var(--omen);filter:brightness(1.7)}to{box-shadow:none;filter:none}}
 #ui-atlas .atlas-actions{display:flex;flex-wrap:wrap;gap:6px;margin-top:10px}
 #ui-atlas .atlas-actions button{min-height:34px;padding:6px 12px}
 #ui-atlas .atlas-primary{background:#cfb887;border-color:#e6cf9f;color:#17140f;font-weight:700;box-shadow:inset 1px 1px 0 #fff3cf,inset -1px -1px 0 #7a6440,2px 2px 0 #000}

diff --git a/data/loot-omens.js b/data/loot-omens.js
@@ -88,6 +88,14 @@ const LOOT_OMENS = Object.freeze({
         { id: 'craftOmens', name: '뿌리의 메아리', note: '10등급 이상 지도에서 뿌리를 품은 몬스터가 자주 나옵니다', kind: 'bonus', weight: 3, tone: '#b98cff',
             needsFallenApex: true, bonus: Object.freeze({ omenBearer: 400 }) }
     ].map(Object.freeze)),
+    // 꽃으로 기운 바꾸기(2026-11-02 사용자): 보관함의 다 자란 꽃 하나로 지도석의 기운을 그 꽃 색의 묶음 안에서 다시 굴린다(지금 기운은 빼고, weight대로).
+    // 황금 꽃은 묶음 안에서 직접 고른다(js/atlas.js changeOmen). 기운마다 한 묶음에 든다. label은 단추에 쓰는 묶음 이름이다.
+    flowers: Object.freeze({
+        fire: Object.freeze({ label: '장비', omens: Object.freeze(['armory', 'jewelry', 'armour', 'unique', 'corrupt', 'twins', 'ember']) }),
+        cold: Object.freeze({ label: '제작', omens: Object.freeze(['orbs', 'tools', 'fossil', 'spore', 'jewels', 'seal', 'craftOmens']) }),
+        lightning: Object.freeze({ label: '지도와 콘텐츠', omens: Object.freeze(['maps', 'rooms', 'keys', 'chests', 'fragments', 'hive', 'ocean']) }),
+        chaos: Object.freeze({ label: '룬과 보스', omens: Object.freeze(['gems', 'dreams', 'elites', 'sky', 'under']) })
+    }),
     treasure: Object.freeze({ packChance: 0.035, rolls: 8, rareGear: 1, uniqueChance: 0.1, prefix: '보물을 품은', outline: '#ffd75e',
         sparks: '#fff1a8',
         // 황금 보물(체이싱 티어의 갈래): 보물 무리 중 chance가 황금 보물이 되어 rolls번, 고유 하나, jackpot 중 하나(요정의 고리나 체이싱 고유

diff --git a/data/items.js b/data/items.js
@@ -1652,7 +1652,9 @@ const MARKET_EXCHANGES = [
     { id: 'm5', from: 'sapBud', to: 'goldenRule', need: 5, gain: 1 },
     { id: 'm6', from: 'goldenRule', to: 'formlessDew', need: 1, gain: 30 },
     { id: 'm7', from: 'formlessDew', to: 'blessing', need: 5, gain: 1 },
-    { id: 'm8', from: 'blessing', to: 'formlessDew', need: 3, gain: 1 }
+    { id: 'm8', from: 'blessing', to: 'formlessDew', need: 3, gain: 1 },
+    // 2026-11-02 사용자: 황금률을 거치지 않고 한 번에. 값은 m5와 m6을 거친 값과 같다(봉오리 5개 → 황금률 1개 → 이슬 30개).
+    { id: 'm9', from: 'sapBud', to: 'formlessDew', need: 1, gain: 6 }
 ];
 
 safeExposeData({ UNIQUE_DB, ARM_GUARD_BASE_LEGACY_NAMES, WEAPON_BASE_LEGACY_NAMES, RENAMED_UNIQUES, CURRENCY_LEGACY_MERGE, getCanonicalCurrencyKey, ORB_DB, CRAFT_OMENS, normalizeCraftOmen, normalizeCraftChoice, WALLET_CURRENCY_INFO, getCurrencyInfo, getStyledOrbName, MARKET_EXCHANGES, OCEAN_FISH_DB, OCEAN_FISH_RARITY_META, OCEAN_FISHING_STRATEGIES, OCEAN_FISH_COLLECTION_MILESTONES, COSMOS_BOSS_REWARD_DB, COSMOS_BOSS_RELIC_DB, COSMOS_BOSS_STONE_OPTION_POOLS, COSMOS_BOSS_UNIQUE_EQUIPMENT, ITEM_VISUAL_ASSET_DB });

diff --git a/css/layout.css b/css/layout.css
@@ -223,4 +223,4 @@
         min-width: 0;
     }
 } }        @layer overrides {
-        #tab-map img:not(.atlas-landscape, .atlas-find-icon, .underworld-stone-icon) { display: none; } }
+        #tab-map img:not(.atlas-landscape, .atlas-find-icon, .atlas-flower-icon, .underworld-stone-icon) { display: none; } }

diff --git a/docs/endgame-loot-20261009.md b/docs/endgame-loot-20261009.md
@@ -134,6 +134,8 @@
   처치 드랍 13(화석, 홀씨, 연장, 벌집, 별똥, 지하, 봉인, 심해, 잿불, 열쇠, 재화, 젬 잔향, 주얼), 장비 6(무기고, 장신구 함, 갑주 창고,
   고유의 메아리, 타락한 땅, 쌍둥이 그림자), 지도 효과 6(지도 제작자, 각인 무덤, 보급 행렬, 붐비는 방, 정예 행렬, 보스의 꿈).
   그 기운이 줄 것이 아직 열리지 않았으면 뽑히지 않는다(contentProgression.canDropCurrency). 세기는 일반 1, 마법 1.5, 희귀 2, 타락 +0.5.
+  2026-11-02: 꽃 하나로 그 색 묶음 안에서 다시 굴리고, 황금 꽃은 고른다(data/loot-omens.js flowers, js/atlas.js changeOmen).
+  화폐화한 꽃은 평범한 꽃으로 세고 보관함의 실물보다 먼저 나간다. 황금 꽃은 보관함의 실물만 쓴다(js/stump-box.js payFlower).
   처치 드랍은 js/atlas-finds.js가 atlasRun.onKill에서 보통 처치와 같은 길(keepCurrencyDrop, 바닥 더미)로 준다. 장비 기운은 적 배율
   (equipmentDropMul, uniqueChanceMul), 부위 가중치(getEquipmentDropSlot), 드랍 변형 배율(equipmentDropVariants)로, 지도 효과 기운은
   지도 런의 효과(startRun)로 들어간다. 지도석 카드, 보관함 줄, 지도 안 상단 줄에 기운이 보인다.

diff --git a/changelog.md b/changelog.md
@@ -1,5 +1,10 @@
 # 패치 노트 (콘텐츠 스포일러 포함)
 
+## v0.3.44 - 2026-11-03
+- 지도석 기운: 다 자란 꽃 1개로 바꿀 수 있습니다(전: 바꿀 수 없음). 화폐화한 꽃을 먼저 쓰고, 없으면 보관함의 꽃을 씁니다. 화염은 장비, 냉기는 제작, 번개는 지도와 콘텐츠, 카오스는 룬과 보스 쪽 기운으로 다시 굴립니다. 황금 꽃은 그 묶음에서 직접 고릅니다.
+- 거래소: 수액 봉오리 1개를 형체 없는 이슬 6개로 바꿀 수 있습니다(전: 황금률을 거쳐야 했습니다).
+- 장막 철퇴 부제사: 뒤를 보며 걸어오던 모습을 고쳤습니다.
+
 ## v0.3.43 - 2026-11-03
 - 생육함: 루프 10부터 해금 탭에서 엽니다(2점). 그루터기 함 틀의 아래 보석으로 바꾸는 초록 함이며, 놓은 아이템은 효과 없이 경험치만 10% 받습니다. 생육 효율 해금으로 100%까지 늘어납니다.
 - 그루터기 함 틀: 아래 보석이 하던 씨앗과 수액 합치기와 조합하기는 틀 아래 단추로 옮겼습니다.
